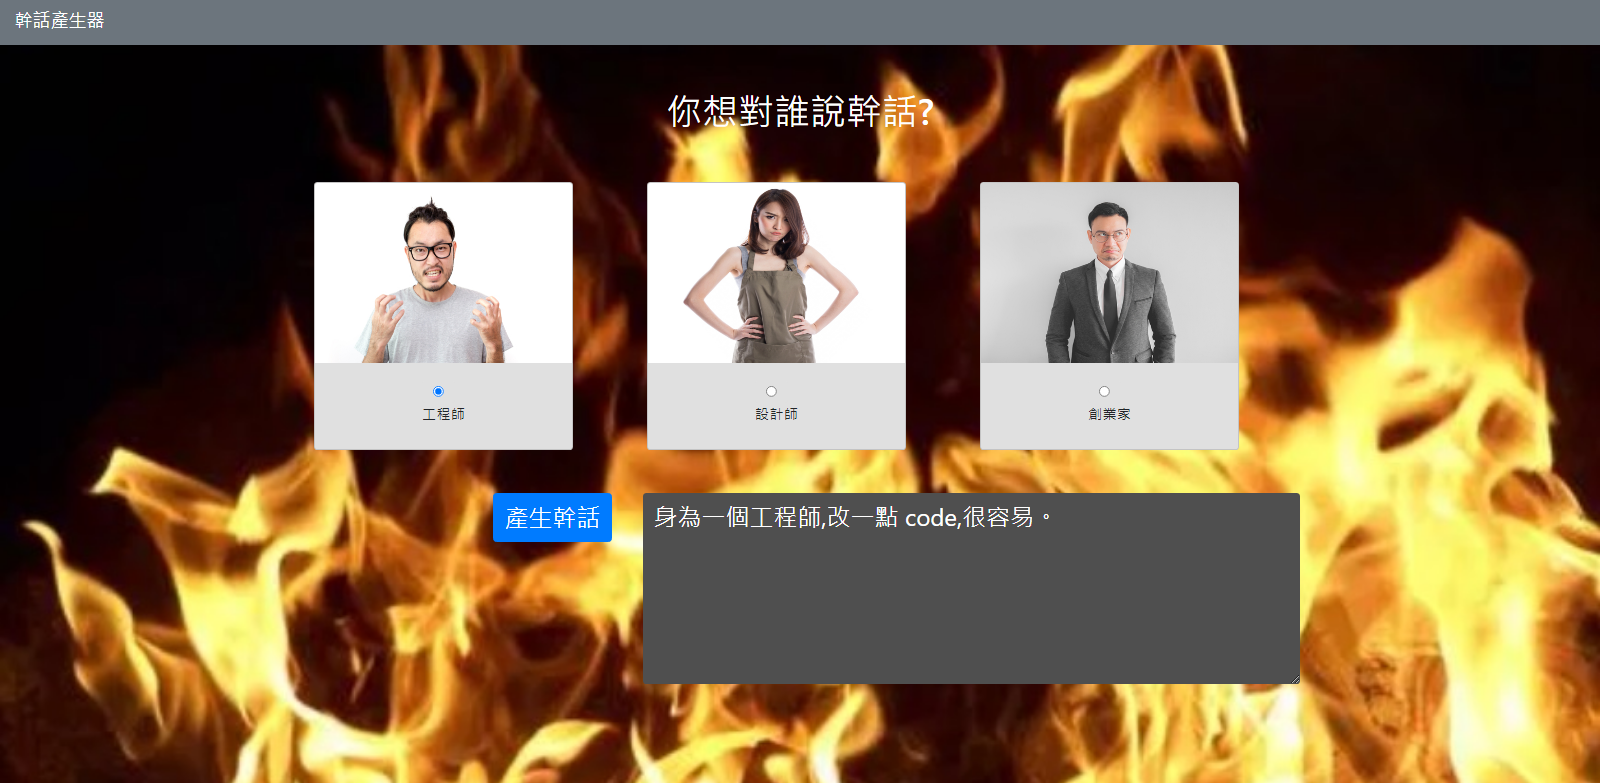
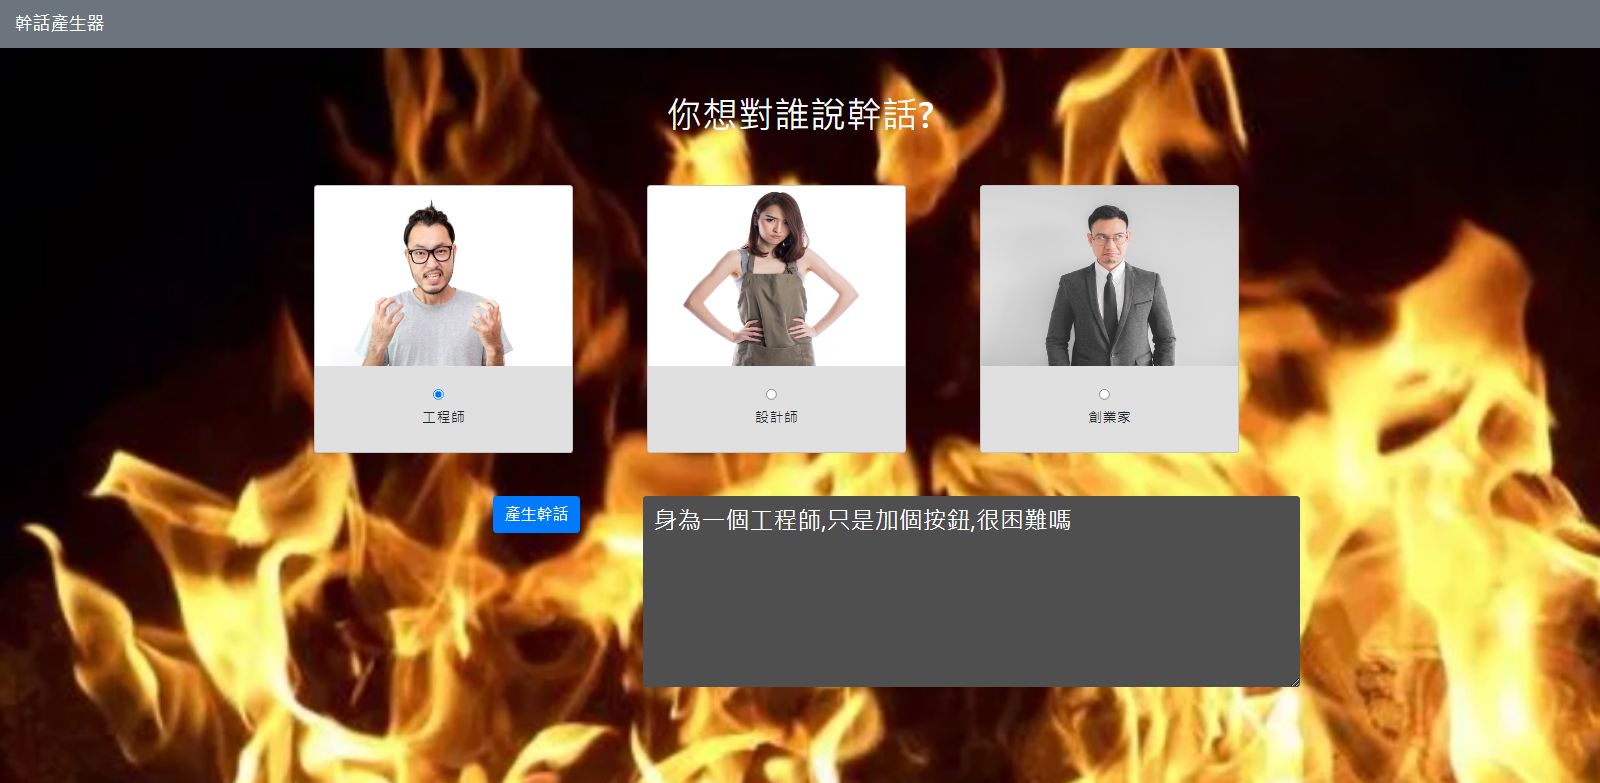
update json

diff --git a/language.js b/language.js
@@ -1,21 +1,5 @@
-const target = {
-  engineer:{
-    title:'工程師'
-  },
-  designer:{
-    title:'設計師'
-  },
-  entrepreneur:{
-    title:'創業家'
-  }
-}
-const task = {
-  engineer: ['加個按鈕','加新功能','切個版', '改一點 code'],
-  designer: ['畫一張圖', '改個 logo','順便幫忙設計一下','隨便換個設計'],
-  entrepreneur: ['週末加班', '要能賺錢','想個 business model','找 VC 募錢']
-
-}
-const phrase = ['很簡單','很容易','很快','很正常']
+const person =require('./people.json')
+const phrase = ['很簡單','很容易','很快','很正常','沒問題的','辦不到嗎','很困難嗎']
 
 function sample (array) {
   const index = Math.floor(Math.random() * array.length)
@@ -23,16 +7,12 @@ function sample (array) {
 }
 
 function generateLanguage (options) {
-  if (!options.job){return '請選一個人物!'}
-  if (options.job === 'engineer') {
-    return `身為一個${target[options.job].title},${sample(task[options.job])},${sample(phrase)}。`
+  if (!options.job){return '請選一個人物!'}else{
+   return `身為一個${person.target[options.job].title},只是${sample(person.target[options.job].task)},${sample(person.phrase)}`
   }
-   if (options.job=== 'designer') {
-    return `身為一個${target[options.job].title},${sample(task[options.job])},${sample(phrase)}。`
-  }
-   if (options.job === 'entrepreneur') {
-    return `身為一個${target[options.job].title},${sample(task[options.job])},${sample(phrase)}。`
-  }
+    
 }
+
+
 module.exports = generateLanguage
 

diff --git a/app.js b/app.js
@@ -3,6 +3,7 @@ const app = express()
 const exphbs = require('express-handlebars')
 const bodyParser = require('body-parser')
 const generateLanguage = require('./language.js')
+const person = require('./people.json')
 const port =3000
 
 app.engine('handlebars', exphbs({defaultLayout:'main'}))
@@ -11,13 +12,13 @@ app.use(express.urlencoded({exteded:true}))
 app.use(express.static('public'))
 
 app.get('/', (req, res) => {
-  res.render('index')
+  res.render('index', {targets: person.target})
 })
 
 app.post('/', (req, res) => {
   const options = req.body
   const language = generateLanguage(options)
-  res.render('index', {language: language, options: options})  
+  res.render('index', {language: language, targets: person.target, options:options})  
 })
 
 app.listen(port, () =>{

diff --git a/public/sytlesheet/style.css b/public/sytlesheet/style.css
@@ -15,7 +15,7 @@ body {
 }
 
 #submit {
-  font-size: 1.5vw;
+  font-size: 1vw;
 }
 
 .input-group-text {
